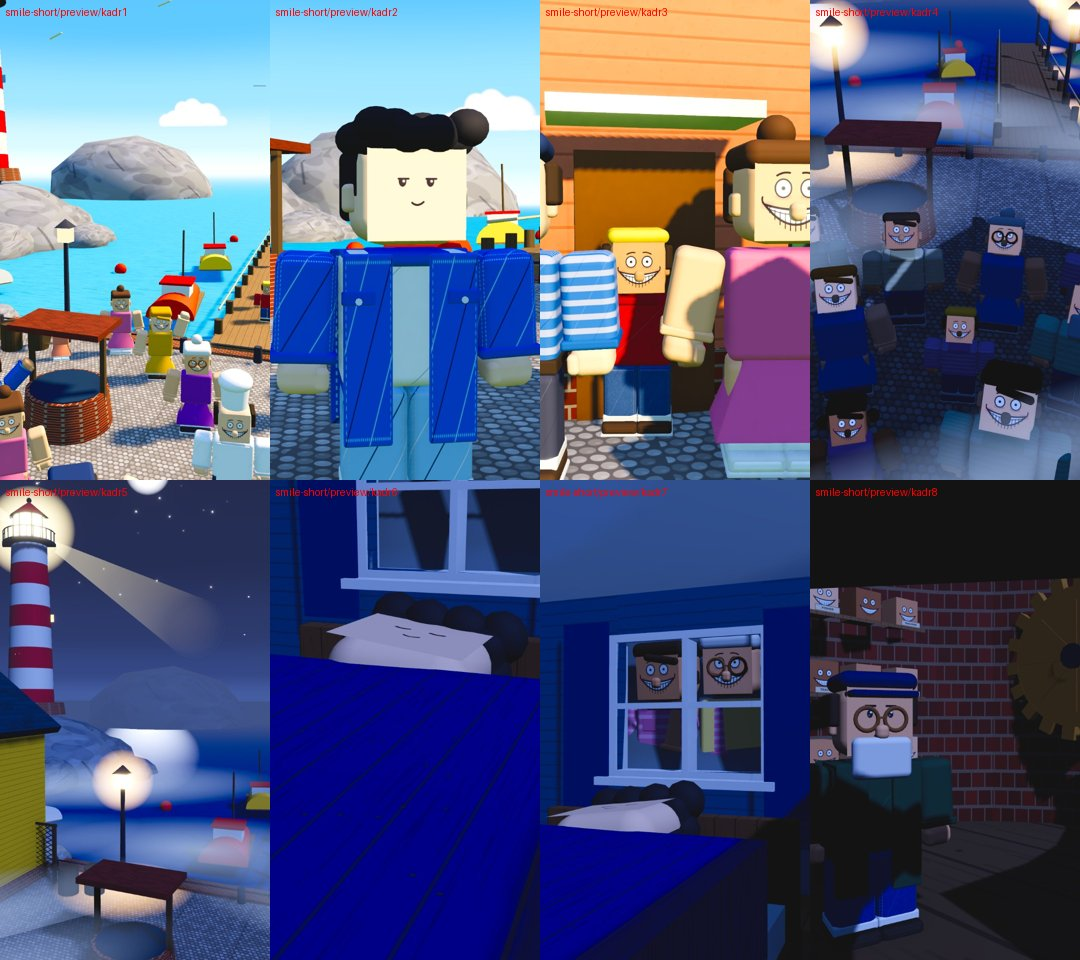
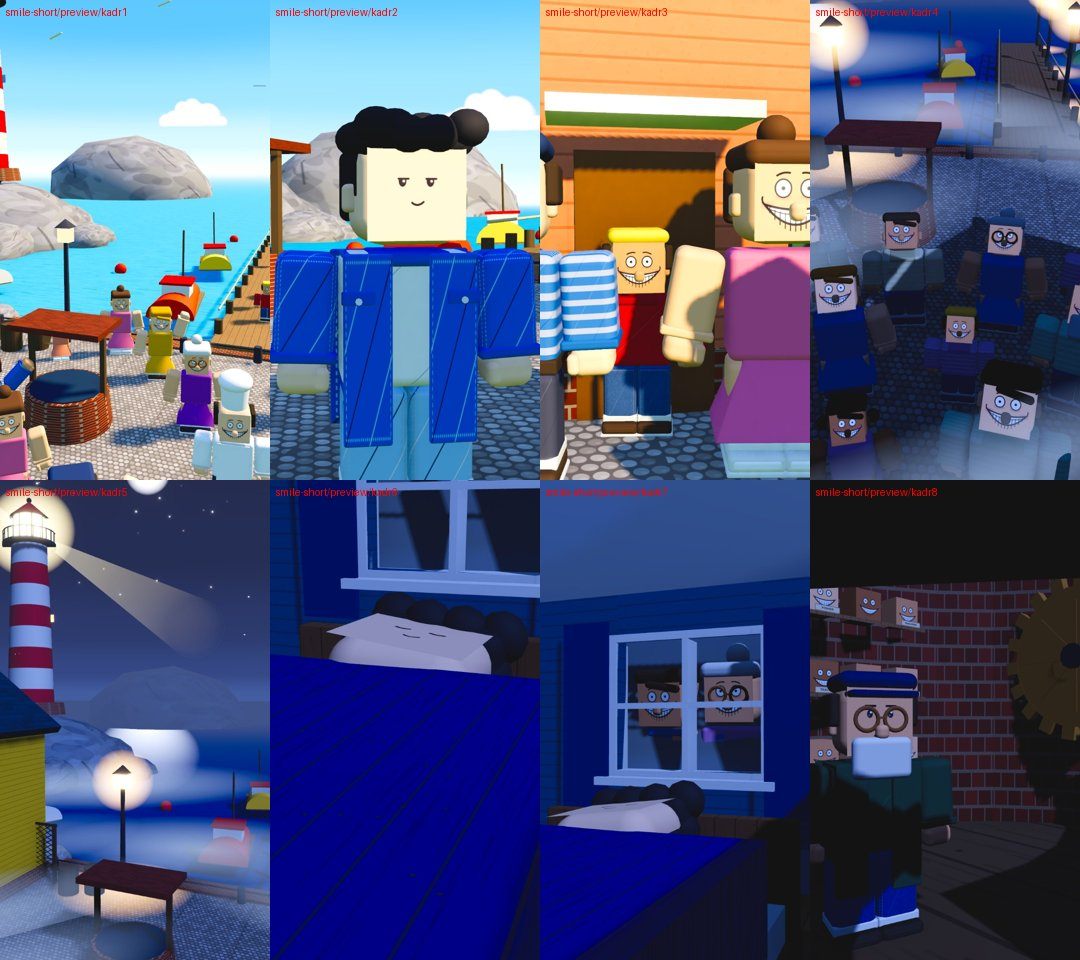
Smile preview: window faces back to the original pose, just set back behind the glass
Claude-Session: https://claude.ai/code/session_015cysGVtzFBcW8zaH4Ua152

Changed region(s): [[0.5806, 0.6562, 0.7028, 0.7812]]

diff --git a/pisa-short/app/src/videos/smile/cast.ts b/pisa-short/app/src/videos/smile/cast.ts
@@ -184,7 +184,7 @@ const TOWN: Outfit[] = [
   { jacket: "#5a6a7a", stripes: "plain", pants: "#2e3a52", boots: "#2a2420", hat: "hair", hairStyle: "bald", hair: "#8a8a8a", beard: "#d8d8d8", skin: SK[1], build: "stout" },                   // old sailor
   { jacket: "#e98a6e", pants: "#3b3f52", boots: "#f4f1ea", hat: "hair", hairStyle: "pigtails", hair: "#3a2a1e", dress: "#e98a6e", build: "kid", skin: SK[3], lashes: true },                     // girl
 ];
-const PJC = ["#f0a0b8", "#f6e08a", "#a8f0c0", "#ffc890"];
+const PJC = ["#8aa8d8", "#d8a8c8", "#a8d8b8", "#e8e0b0"];
 const PJ = (o: Outfit, k: number): Outfit => ({ ...o, jacket: PJC[k % 4], stripes: "stripe", pants: PJC[k % 4], dress: o.dress ? PJC[k % 4] : undefined, apron: undefined, hat: o.hat === "chef" || o.hat === "cap" ? "hair" : o.hat, hairStyle: o.hat === "chef" || o.hat === "cap" ? "side" : o.hairStyle, waist: undefined, buttons: undefined, boots: "#5a4a6a" });
 const KEEPER: Outfit = { jacket: "#2f4a3a", stripes: "plain", pants: "#3a3a42", boots: "#2a2420", hat: "cap", cap: "#24365e", beard: "#e8e4dc", skin: SK[1], build: "stout", raincoat: "#2f4a3a", glasses: "#8a5a34" };
 
@@ -238,8 +238,8 @@ export const stage = (id: number, t: number, cam: CamInfo): Stage => {
     case 6: leo("neutral", { mode: "lie", yaw: 0, blink: 1, y: 0.83 }, [BED[0], 0.62, BED[2] + 1.12], LEO_BED); break;
     case 7: { // faces at the window over the sleeping boy
       leo("neutral", { mode: "lie", yaw: 0, blink: 1, y: 0.83 }, [BED[0], 0.62, BED[2] + 1.12], LEO_BED);
-      const wz = RWIN[2] - 0.82; // the window wall is 0.3-0.5 m behind RWIN; keep their chests and noses clear of glass and sill
-      [[-0.36, 0.3, 0], [0.36, 0.34, 0], [0.0, 0.5, -0.7]].forEach(([dx, dy, dz], i) => (creep(i + 3, [RWIN[0] + dx, dy - (1.62 - RWIN[1]) - 0.05, wz + dz], { yaw: 0.15 * dx, headTilt: 6 }, PJ(TOWN[(i + 3) % TOWN.length], i)).nosep = true));
+      const wz = RWIN[2] - 0.86; // the window wall is 0.3-0.5 m behind RWIN; keep their chests and noses clear of glass and sill
+      [[-0.36, 0.02, 0], [0.36, 0.06, 0], [0.0, 0.14, -0.7]].forEach(([dx, dy, dz], i) => (creep(i + 3, [RWIN[0] + dx, dy - (1.62 - RWIN[1]) - 0.05, wz + dz], { yaw: 0.15 * dx, headTilt: 6 }, PJ(TOWN[(i + 3) % TOWN.length], i)).nosep = true));
       break;
     }
     case 8: put(400, KEEPER, [LHIN[0] - 1.1, 0, LHIN[2] + 0.6], 1, "neutral", { yaw: toCam([LHIN[0] - 1.1, 0, LHIN[2] + 0.6]) + 0.35, look: -0.6, blink: lidAt(t, 400) }); break;
